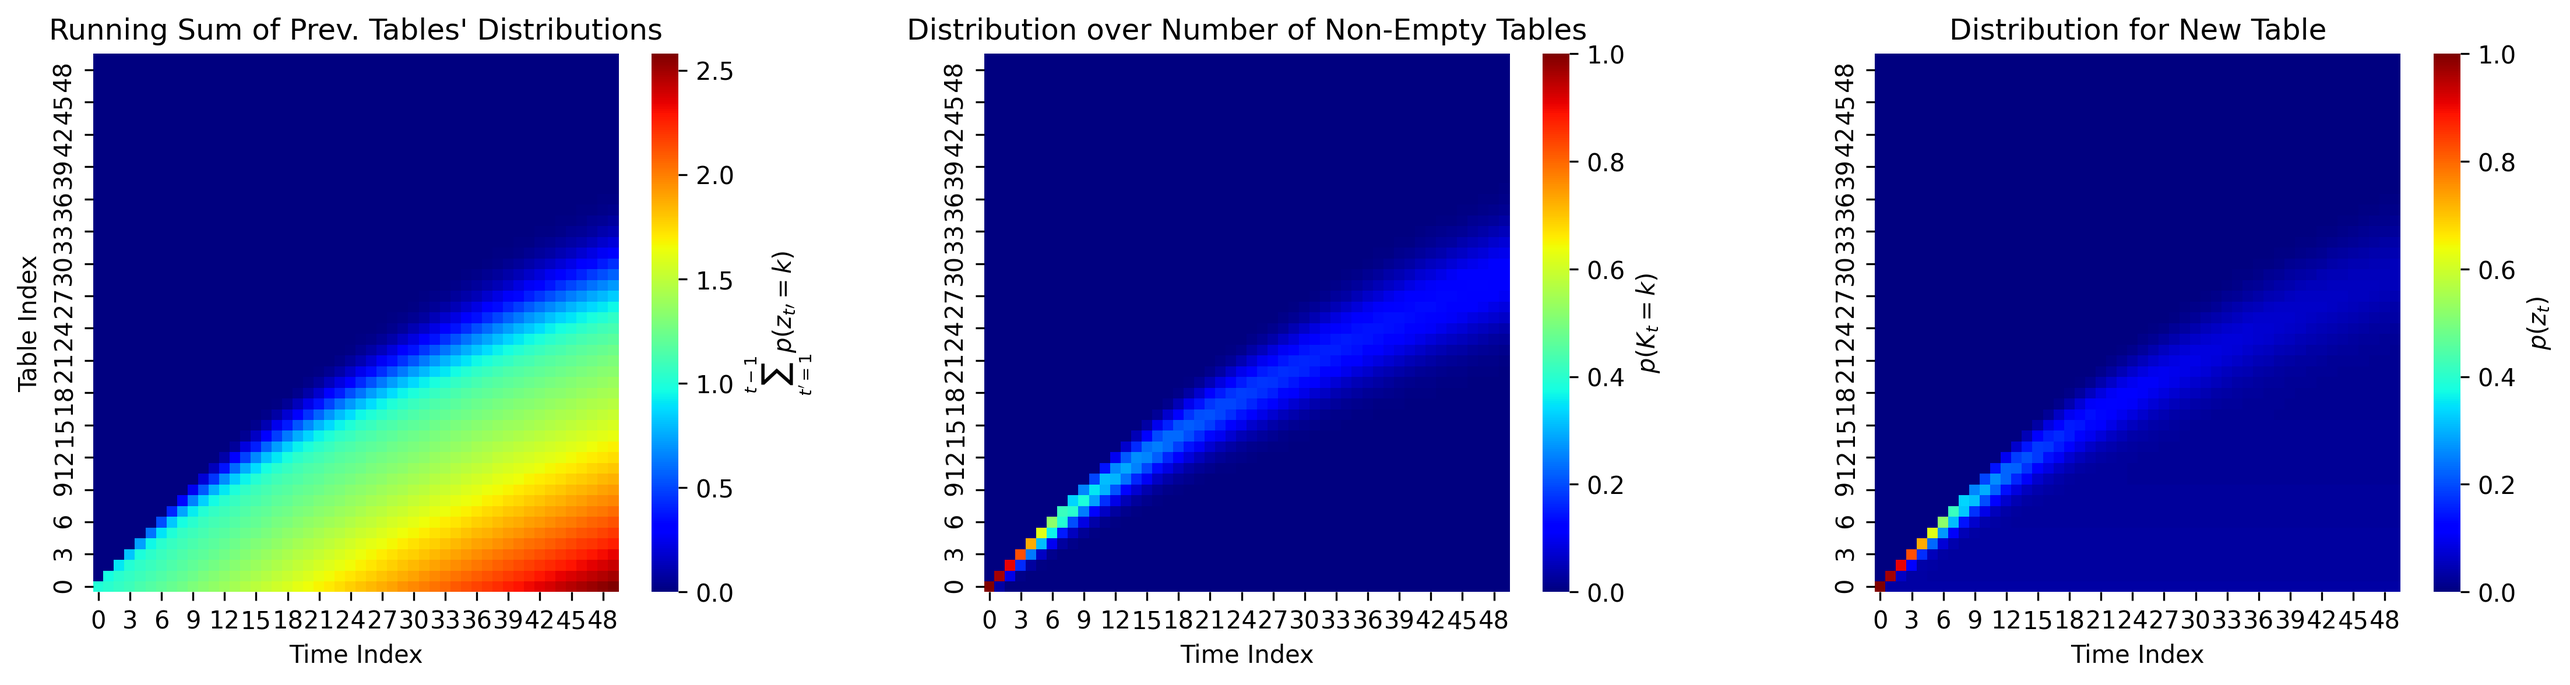
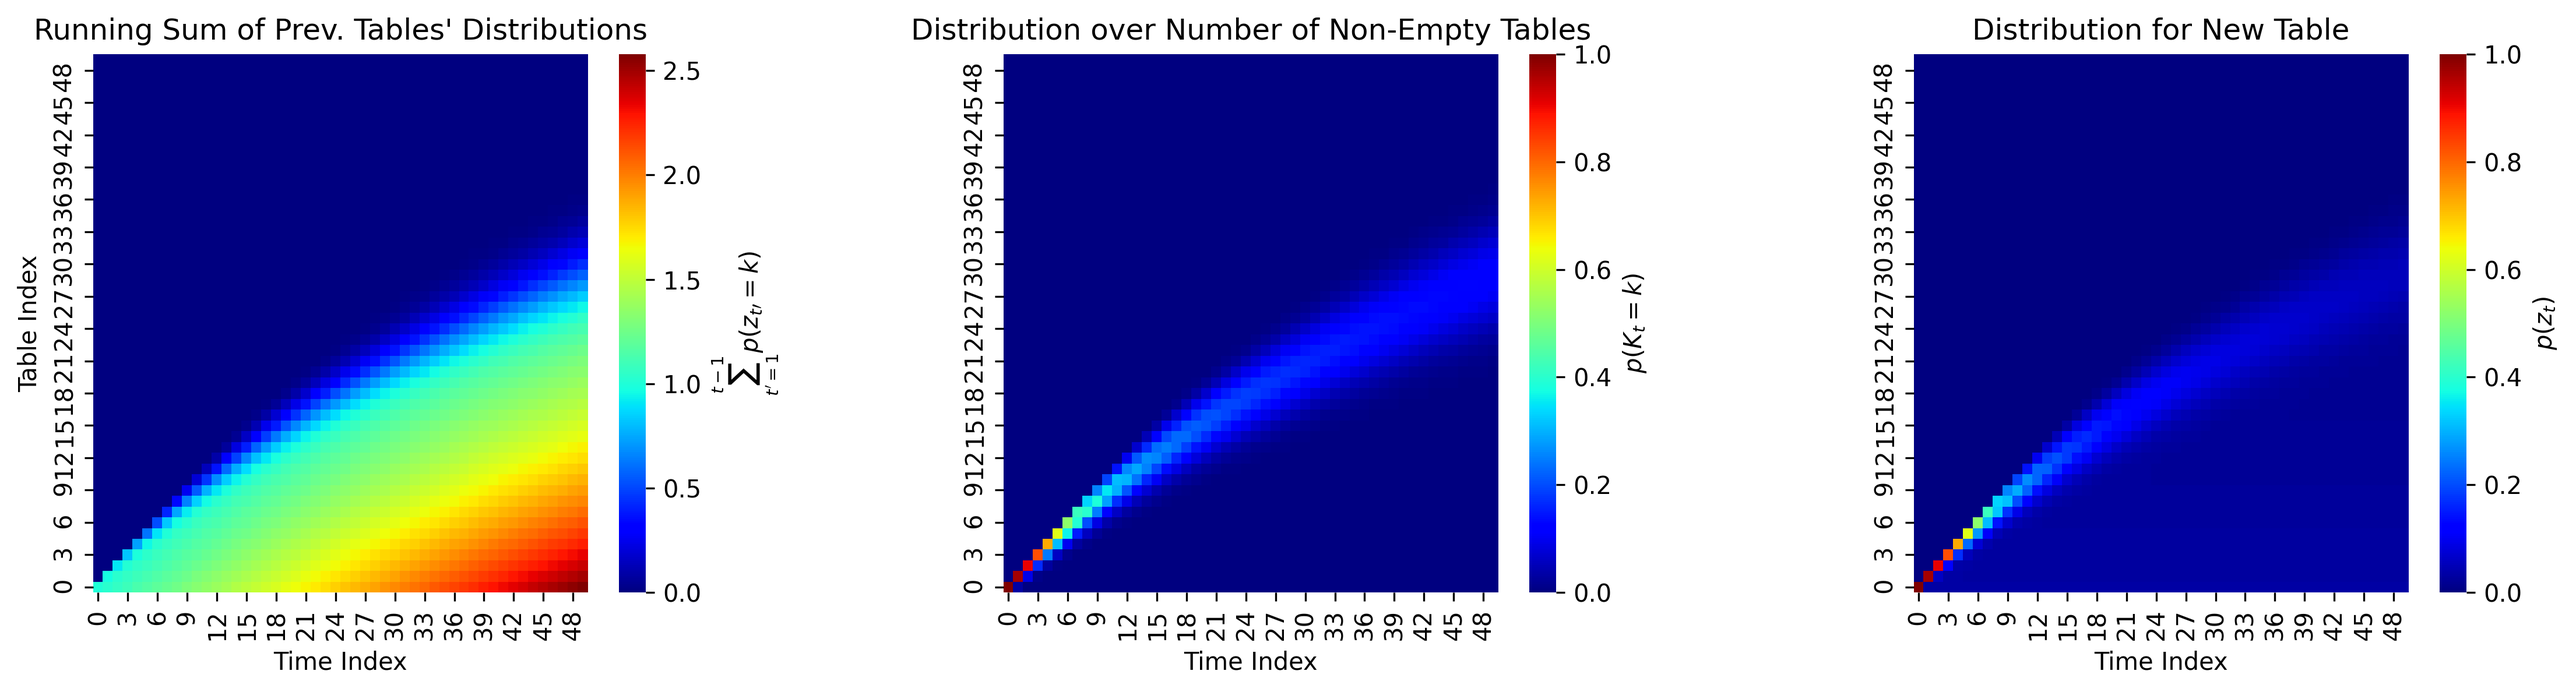
Added slightly more space to CRP prior recursion plot

diff --git a/exp_00_prior/main.py b/exp_00_prior/main.py
@@ -181,7 +181,7 @@ table_distributions_by_T_array = np.stack([table_distributions_by_T[key]
 fig, axes = plt.subplots(nrows=1,
                          ncols=5,
                          figsize=(18, 4),
-                         gridspec_kw={"width_ratios": [1, 0.1, 1, 0.1, 1]},
+                         gridspec_kw={"width_ratios": [1, 0.2, 1, 0.2, 1]},
                          sharex=True)
 
 ax = axes[0]
